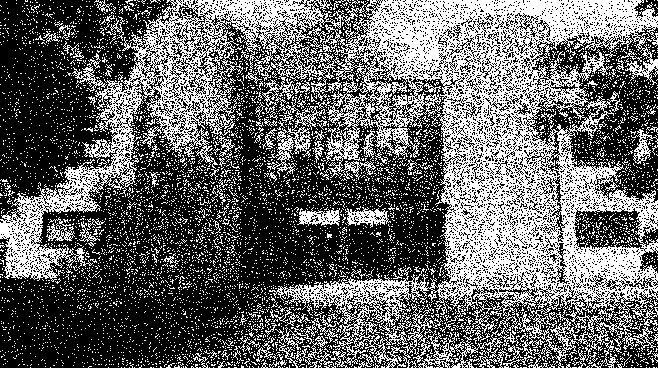
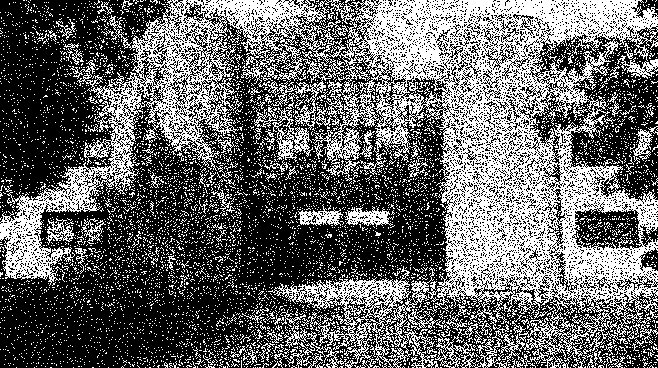
debut de bayer

diff --git a/tp_note_rust/src/main.rs b/tp_note_rust/src/main.rs
@@ -34,6 +34,16 @@ enum Mode {
     Seuil(OptsSeuil),
     Palette(OptsPalette),
     Tramage(OptsTramage),
+    Bayer(OptsBayer),
+}
+
+#[derive(Debug, Clone, PartialEq, FromArgs)]
+#[argh(subcommand, name="bayer")]
+/// Rendu de l’image par tramage d’ordre n
+struct OptsBayer {
+    /// l’ordre de la matrice de Bayer
+    #[argh(option)]
+    ordre: usize
 }
 
 #[derive(Debug, Clone, PartialEq, FromArgs)]
@@ -135,6 +145,28 @@ fn main() -> Result<(), ImageError> {
     //     }
     // });
 
+    fn generation_matrice_bayer(ordre: usize) -> Vec<Vec<u32>> {
+        if ordre == 0 {
+            return vec![vec![0]];
+        }
+
+        let matrice_ordre_precedent = generation_matrice_bayer(ordre - 1);
+        let taille = matrice_ordre_precedent.len();
+        let mut matrice = vec![vec![0; taille * 2]; taille * 2];
+
+        for i in 0..taille {
+            for j in 0..taille {
+                let valeur = matrice_ordre_precedent[i][j];
+                matrice[i][j] = 4 * valeur;
+                matrice[i + taille][j] = 4 * valeur + 2;
+                matrice[i][j + taille] = 4 * valeur + 3;
+                matrice[i + taille][j + taille] = 4 * valeur + 1;
+            }
+        }
+
+        return matrice;
+    }
+
     
     // rgb_img.save("../images/Question8.png")?;
 
@@ -202,10 +234,23 @@ fn main() -> Result<(), ImageError> {
                 }
             });
         }
+        Mode::Bayer(opts) => {
+            let matrice_bayer = generation_matrice_bayer(opts.ordre);
+            let taille = matrice_bayer.len();
+            rgb_img.enumerate_pixels_mut().for_each(|(x, y, pixel)| {
+                let luminosité = calcule_luminosité(*pixel);
+                let valeur = matrice_bayer[(x % taille as u32) as usize][(y % taille as u32) as usize] as f32;
+                if luminosité > valeur {
+                    *pixel = image::Rgb([255, 255, 255]);
+                } else {
+                    *pixel = image::Rgb([0, 0, 0]);
+                }
+            });
+        }
     }
 
-
-    rgb_img.save("../images/Question12.png")?;
+    println!("Matrice de Bayer : {:?}", generation_matrice_bayer(3));
+    rgb_img.save("../images/Question15.png")?;
 
 
     Ok(())

diff --git a/README.md b/README.md
@@ -319,3 +319,25 @@ Mode::Tramage(opts) => {
 Ainsi avec la commande suivante `cargo run -- iut.jpg tramage` on obtient l'image suivante :
 
 ![alt text](images/Question12.png)
+
+## Question 13 :
+
+Voici à quoi ressemble une matrice de bayer d'ordre 3 : 
+
+```
+[0, 32, 8, 40, 2, 34, 10, 42],
+[48, 16, 56, 24, 50, 18, 58, 26], 
+[12, 44, 4, 36, 14, 46, 6, 38], 
+[60, 28, 52, 20, 62, 30, 54, 22],
+[3, 35, 11, 43, 1, 33, 9, 41],
+[51, 19, 59, 27, 49, 17, 57, 25],
+[15, 47, 7, 39, 13, 45, 5, 37],
+[63, 31, 55, 23, 61, 29, 53, 21],
+```
+
+## Question 14 :
+ 
+Pour représenter une matrice de Bayer nous pouvons utiliser une liste de liste. Pour en générer une de taille n, il suffit de faire une fonction recursive, qui a chaque étape recréer une liste 2 fois plus grande et ajoute les nouvelles valeurs. Voici notre fonction : 
+
+```rust
+```
